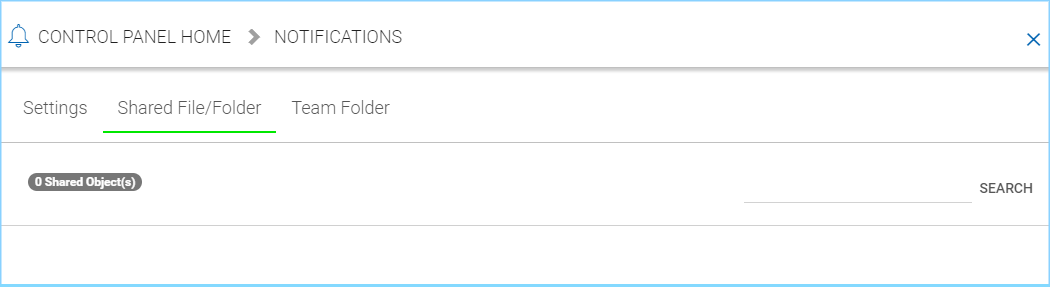
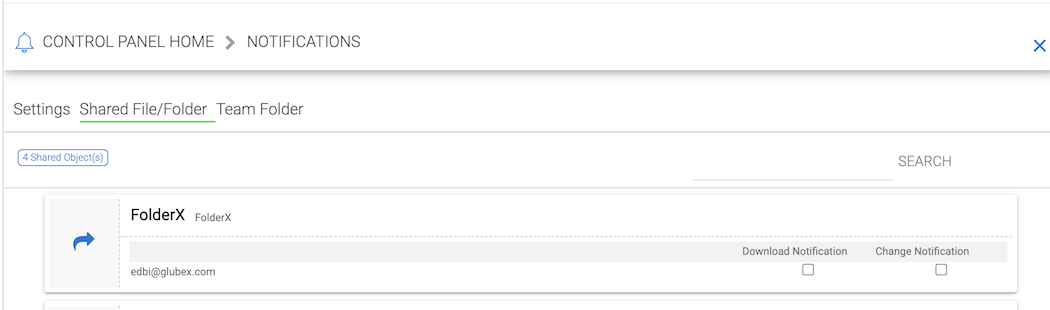
Update images for Control Panel Notifications

diff --git a/admin/source/chapter03.rst b/admin/source/chapter03.rst
@@ -481,10 +481,9 @@ The cluster administrator can use the notification manager to help the tenant se
 for the events subscribed.
 
 .. figure:: _static/2021newimage030.png
-.. figure:: _static/2021newimage031.png
     :align: center
     
-    NOTIFICATIONS SETTINGS    
+    NOTIFICATIONS    
 
 Settings 
 """"""""""""""""""""""
@@ -498,15 +497,18 @@ Settings
     
     When set, the system will send email notification daily about the events you are interested (Select below).
 
-    - File Changes	
-    - Audit Trace	
-    - Users approaching the storage quota limit	
+    - File Changes
+    - Audit Trace
+    - Users approaching the storage quota limit
+    - Notification threshold
     
-**Notify tenant admin when member's sync task failed**
+**Notify tenant admin when member's sync task failed or paused**
 
-**Notify tenant admin when member shared a folder**
+**Notify tenant admin when a member shares a folder**
 
-**Notify me when user account is locked out**
+**Notify me when a user account is locked out**
+
+**Do not show file change notifications on Windows and Mac client**
 
 **Send notification to these emails in addition to tenant admin's email (email;email2)**
 
@@ -518,16 +520,10 @@ Shared File/Folder
 .. figure:: _static/image_s5_12_20.png
     :align: center
 
-    TEAM FOLDER SUBSCRIPTION OPTION
+    SHARES SUBSCRIPTIONS
 
-Notification regarding the changed files and folders
-Team Folder - notification regarding changed files and folders
-Settings
+Notification regarding modified/downloaded shared files and folders.
 
-  Send Daily Notification Email
-  Notify tenant admin when member's sync task failed
-  Notify tenant admin when member shares a folder
-  Notify me when user account is locked out.
 
 Team Folder
 """"""""""""""""""""""
@@ -535,7 +531,7 @@ Team Folder
 .. figure:: _static/image_s5_12_30.png
     :align: center
 
-    NOTIFICATION SETTINGS
+    TEAM FOLDER SUBSCRIPTIONS
 
 Administrators can use this setting to receive notifications when changes occur in Team Folders.
 

diff --git a/user_web/source/chapter11.rst b/user_web/source/chapter11.rst
@@ -92,22 +92,21 @@ In the ‘Management Console’, click ‘User Manager’:
 
     WAYS TO ACCESS USER MANAGEMENT
 
-
 In ‘User Manager’ window, click the ‘+’ icon or "Add User" on the top left.
 
 .. figure:: _static/image_s12_1_3.png
     :align: center
-
+    
     CREATING OR MIGRATING USERS
+
 Add User
 ---------
 
 You can add users from within the User Manager or simply click the Add New User button to open the **"Sources of New User"** panel. In that panel you have several options: add a Native User, Batch Create Users, import Active Directory users and permissions, and if you have Server Agents actively connected, you will also see those servers listed here as well.
 
-
 .. figure:: _static/image_s8_2_3.png
     :align: center
-
+    
     ADDING USERS
 
 **Native User** 

diff --git a/user_web/source/chapter4.rst b/user_web/source/chapter4.rst
@@ -1,6 +1,6 @@
-#################
-Getting Started with the initial login
-#################
+###################################################
+Initial login
+###################################################
 
 To get started, point your web browser at the Triofox server.
 
